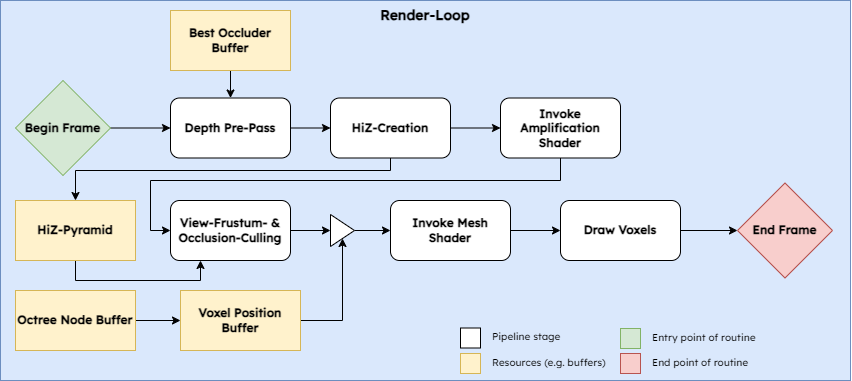
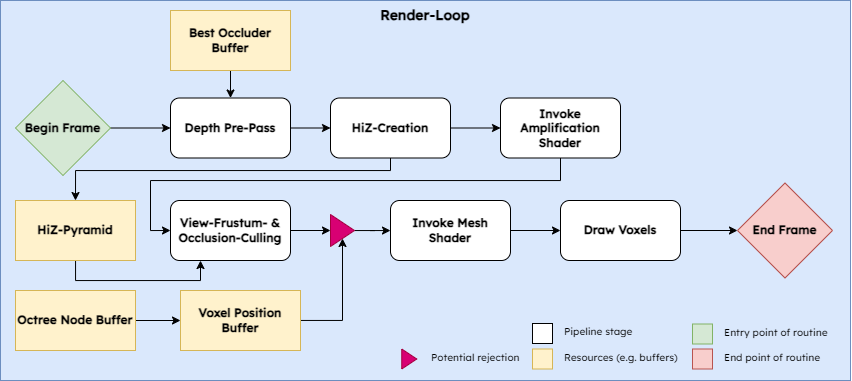
updated render loop image and added text to implementation

Changed region(s): [[0.4577, 0.8373, 0.9765, 0.9816], [0.3662, 0.5486, 0.4272, 0.6352]]

diff --git a/Thesis/chapters/07_Implementation.tex b/Thesis/chapters/07_Implementation.tex
@@ -12,7 +12,7 @@ because of the use of additional acceleration structures. This chapter provides 
 additions to the framework and how the pipeline works in specific. The implementation details can be found in the 
 appendix \ref{cpt-appendix}.
 
-\section{Pipeline Overview}
+\section{Pipeline Initialization} \label{sec-piepline-initialization}
 
 \begin{figure}[h]
     \centering
@@ -22,16 +22,28 @@ appendix \ref{cpt-appendix}.
     \label{fig:pipeline-initialization}
 \end{figure}
 
-The pipeline is, as usually, split into an initialization routine and an update loop. The initialization is 
+\noindent
+The pipeline is, as usual, split into an initialization routine and an update loop. The initialization is 
 called once during the beginning of the execution flow and the render loop is initiated after the initialization 
 finished. Then, the loop is continuously called - once per frame. Figure \ref{fig:pipeline-initialization} shows 
-the initialization procedure. For the purpose of this case study, a single, solid voxel mesh is loaded, but this 
-could as well be a scene consisting of multiple solid voxel models. After loading any voxel model, an octree is 
-created that covers the complete scene - in this case the bouding volume of the voxel model. As discussed in 
-chapter \ref{subsec-highres-svo-dags}, it is recommended to use a highly efficient and compressed octree 
-implementation like an \ac{SVO} or a Sparse Voxel \ac{DAG} \cite{Kampe2013}. For the purpose of our case study, 
-we used a custom octree implementation which refers to indices in a global \emph{voxel position buffer}, as 
-shown in figure \ref{fig:voxelpos-octreenode-buffer}.[@TODO: meshlets dont need to be pre-computed] \\
+the initialization procedure. 
+
+\subsection*{Voxel Model Loading} \label{subsec-voxel-model-loading}
+
+For the purpose of this case study, a single, solid voxel mesh is loaded, but this could as well be a scene 
+consisting of multiple solid voxel models. In our implementation, the positions of voxels inside a regular 
+grid are loaded, skipping grid cells, where no voxels are located. For loading the voxels, the tool \emph{binvox} 
+is used \cite{binvox, Nooruddin2003}. 
+
+
+\subsection*{Octree Creation} \label{subsec-octree-creation}
+
+After loading any voxel model, an octree is created that covers 
+the complete scene - in this case the bouding volume of the voxel model. As discussed in chapter 
+\ref{subsec-highres-svo-dags}, it is recommended to use a highly efficient and compressed octree 
+implementation like an \ac{SVO} or a Sparse Voxel \ac{DAG} \cite{Kampe2013}. For the purpose of our case 
+study, we used a custom octree implementation which refers to indices in a global \emph{voxel position buffer}, 
+as shown in figure \ref{fig:voxelpos-octreenode-buffer}.\\
 
 \begin{figure}[h]
     \centering
@@ -57,9 +69,11 @@ based view frustum culling. To generate this data, the octree is queried during 
 in an extra \emph{octree node buffer} which stores an index into the voxel position buffer and a count of voxels,
 associated with the node. After sorting the voxel position buffer, this additional structure identifies voxel 
 positions that are located adjacent to each other inside an octree node. Figure \ref{fig:voxelpos-octreenode-buffer} 
-shows the data layout and how it relates to the voxel position buffer. \\
+shows the data layout and how it relates to the voxel position buffer. 
 
-\noindent
+
+\subsection*{Best Occluder Selection} \label{subsec-best-occluder-selection}
+
 The next step in the initialization procedure is to pre-compute the best occluders. This part is a significant one, 
 since it computes important data for the occlusion culling. As mentioned in chapter \ref{subsec-two-pass-occlusion-culling},
 best occluders are usually specifically authored by artists during the creation of the scene. This process is only 
@@ -80,26 +94,36 @@ voxels, and approximates them using the octree. This means, an octree node is eq
 
 \begin{itemize}
     \item the maximum number of voxels per octree node is a power of three (e.g. $2^{3}$,  $3^{3}$, ...),
-    \item the number of voxels present within the node is equal to the maximum number of voxels per octree node
-    \item and the octree node's bounds are equal to the \emph{minimal convex hull} of all voxels within the node.
+    \item the number of voxels present within the node is equal to the maximum number of voxels per octree node,
+    \item and the octree node's boundary is equal to the \emph{minimal convex hull} of all voxels within the node.
 \end{itemize}
 
 \noindent
 In practice, this means, that best occluders are given, if the octree node is completely, tightly filled 
-with voxels. If the octree node is larger than the block defined by the maximum number of voxels per node, 
-this block cannot be approximated correctly by the bounds of the node. [@TODO: add images]
-The best occluders are then seperatly stored in a buffer, so they can be dispatched efficiently.
-[@TODO: Add data structure diagram of best occluder buffer]\\
+with voxels. If the octree node, however, is larger than the block defined by the maximum number of voxels 
+per node, this block cannot be approximated correctly by the bounds of the node. This property of a best 
+occluder is propagated up the tree, as long as all eight child nodes satisfy the requirements of being a 
+best occluder. During the depth pre-pass, the best occluders are drawn as "large voxels" which are the size 
+of the respective best occluder node. This can be achieved by simply reusing the mesh shader used in the 
+normal draw call, and inputting the node's position and bounds. This way, a whole node gets drawn, instead 
+of the individual voxels, reducing the computation cost for the best occluders by at least \emph{n} times, 
+with \emph{n} being the maximum amount of voxels per node. The best occluders are seperatly stored in a 
+buffer, so they can be dispatched efficiently. \\
+
+%[@TODO: Add data structure diagram of best occluder buffer]
+%[@TODO: add images]
 
 \noindent
 This concludes the initialization of the pipeline. When changes are applied to the voxel data, the voxel buffer,
 the octree node buffer and the best occluder buffer need to be updated accordingly. Alternatively, the best 
 occluders can be implicitly calculated on the basis of the octree node buffer. This would make the best 
-occluders buffer redundant but would result in a higher dispatch count with a lot of discarded dispatches, 
+occluders buffer redundant but would result in a higher dispatch count with a lot of discarded nodes, 
 where the criteria for best occluder are not met. Since all computations are more or less in parallel, this 
-will not affect frametimes for a given amount of octree nodes. Nevertheless, since we are using static 
+will not affect frametimes for a moderate amount of octree nodes. Nevertheless, since we are using static 
 voxel models with no runtime alternation, a static, pre-calculated buffer for best occluders is used.
-   
+
+
+\section{Rendering Loop} \label{sec-rendering-loop}
 
 \begin{figure}[h]
     \centering
@@ -108,23 +132,50 @@ voxel models with no runtime alternation, a static, pre-calculated buffer for be
     \label{fig:pipeline-loop}
 \end{figure}
 
-
-
-
-% @TODO: Meshlet Creation -> Voxel
-
-- Meshlet creation for voxel meshes is trivial since meshlets don't have to be per-computed
-- Meshlet culling is also straight forward since Voxels are inherently AABBs
-- Where can I put the initial thought of having voxels as meshlets? -> maybe motivation? 
-
-\section{Setup}
-
-% @TODO: Add reference to Diligent Engine's github etc.
-For the case study, a starting point is used which provides a reliable and comparable environment.
-The framework used is the \emph{Diligent Engine} which already implements state of the art, multi-
-platform and multi-API rendering. \\
-
 \noindent
+The rendering loop consists of three main steps: The depth pre-pass including \ac{HiZ} generation, the 
+amplification shader and the mesh shader. The different stages consume and generate various data buffers 
+and textures, as shown in figure \ref{fig:pipeline-loop}. 
+
+\subsection*{Depth Pre-Pass} \label{subsec-depth-prepass}
+
+The frame computation starts by computing the depth pre-pass, which is the custom render pass central 
+for the occlusion culling. In this pass a compute shader is invoked that takes the best occluders and 
+draws them to the depth buffer. This depth pass does not draw to the back buffer, making the computation 
+relatively efficient. It can also include optional computations like frustum culling for further 
+optimization. This can be effective when there are a lot of nodes in the best occluders buffer. 
+Consequently, the depth buffer has data from possible occluders and the \ac{HiZ} generation is started. 
+The z-pyramid is generated by another compute shader, which samples four texels of the input texture 
+(the full resolution depth buffer) and outupts the lowest z-value to an outupt texture (mip level 1). 
+This chain of mip-maps is shown as the [@TODO: here is a jump from mip lvl 1 to full z-pyramid!]
+\ac{HiZ}-pyramid in figure \ref{fig:pipeline-loop}.
+
+
+\subsection*{The Amplification Shader} \label{subsec-amplification-shader}
+
+Now, the amplification shader is invoked, each threadgroup resembling one octree node. The amplification 
+shader now decides over which meshlets are drawn. Here, view frustum culling is applied to a threadgroup 
+and the occlusion culling is executed by projecting the boudning box of the meshlets onto the view plane 
+and querying the \ac{HiZ}-pyramid for depth values. If the voxel position is found to be visible - or not 
+occluded by the best occluders - the position is added to the payload, ready to be drawn by the mesh shader. 
+
+
+\subsection*{The Mesh Shader} \label{subsec-mesh-shader}
+
+The mesh shader executes the appropriate transformations, constructs a uniform voxel around the voxel position 
+and outputs the geometry. The voxels in a \ac{GPU}-Driven approach can be completely generated on the \ac{GPU}, 
+minimizing the memory bandwidth used per frame. This optimization technique is not only efficient, but also 
+trivial for uniform, static voxel geometry. When dispatching one voxel per thread, one voxel corresponds 
+to one meshlet, making pre-computation completely redundant, as opposed to the common precomputation of meshlets, 
+as mentioned in chapter \ref{sec-mesh-shading}. 
+
+
+\section{Something along the lines of "specific example"} \label{sec-todo}
+
+[@TODO: Check if I should explain mip levels in chptr 4]
+
+- Where can I put the initial thought of having voxels as meshlets? -> maybe motivation? 
+- Early-z rejection vs. our approach
 
 
 
@@ -147,14 +198,11 @@ Implementation Considerations:
 
 - Explain why Mesh Shading is useful here and what the differences to HiZ and Two-Pass OC are!
 
-- Align octree bounds with outer most voxel bounds, so no misalignment happens!
-    
+
 - Limitations: 
-    - Using Mesh Shading, we occlude meshlets against other meshlets, instead of instances against other
-    instances. This might be a limiting factor!
-
 - Worse performance on slopes? -> Check and measure!
+- Align octree bounds with outer most voxel bounds, so no misalignment happens!
 
-- Larger nodes which are not being split can be "full" without being full!
+- (Larger nodes which are not being split can be "full" without being full!)
 
 // --------------------------------------------------------------------------------- //

diff --git a/Thesis/chapters/05_RelatedWork.tex b/Thesis/chapters/05_RelatedWork.tex
@@ -38,7 +38,7 @@ shadows or ambient occlusion in rasterizer pipelines. Fully ray traced real-time
 for voxel rendering, using common optimization techniques like a \ac{BVH}. Voxel data for ray tracing has been a 
 major influence for our approach, since their implicit voxel representation is generally compatible with meshes 
 generated directly on the \ac{GPU}. Various efforts have been made to optimize voxel representations for ray traced 
-pipelines. Assarsson et al. \cite{Assarsson2013} propose the use of their \emph{High-Resolution Sparse Voxel \ac{DAG}s}, 
+pipelines. Assarsson et al. \cite{Kampe2013} propose the use of their \emph{High-Resolution Sparse Voxel \ac{DAG}s}, 
 as discussed in chapter \ref{subsec-highres-svo-dags}. This approach is tailored to high voxel resolutions and data that 
 might not fit into memory all at once. Their data structure can be easily split up into several sub-trees, which in turn 
 can be loaded individually. This approach seems promising for large scenes and use cases, which require the streaming of 

diff --git a/Thesis/chapters/10_Prospect.tex b/Thesis/chapters/10_Prospect.tex
@@ -4,5 +4,6 @@
 
 \section{Future work}
 
-- use every thread in thread group and do not leave threadgroups idle when rejecting nodes (View Frustum Culling or frustum culling)
+- Use every thread in thread group and do not leave threadgroups idle when rejecting nodes (View Frustum Culling or frustum culling)
 - Use Sparse Voxel DAGs and better data compression
+- se meshlet backface culling technique
